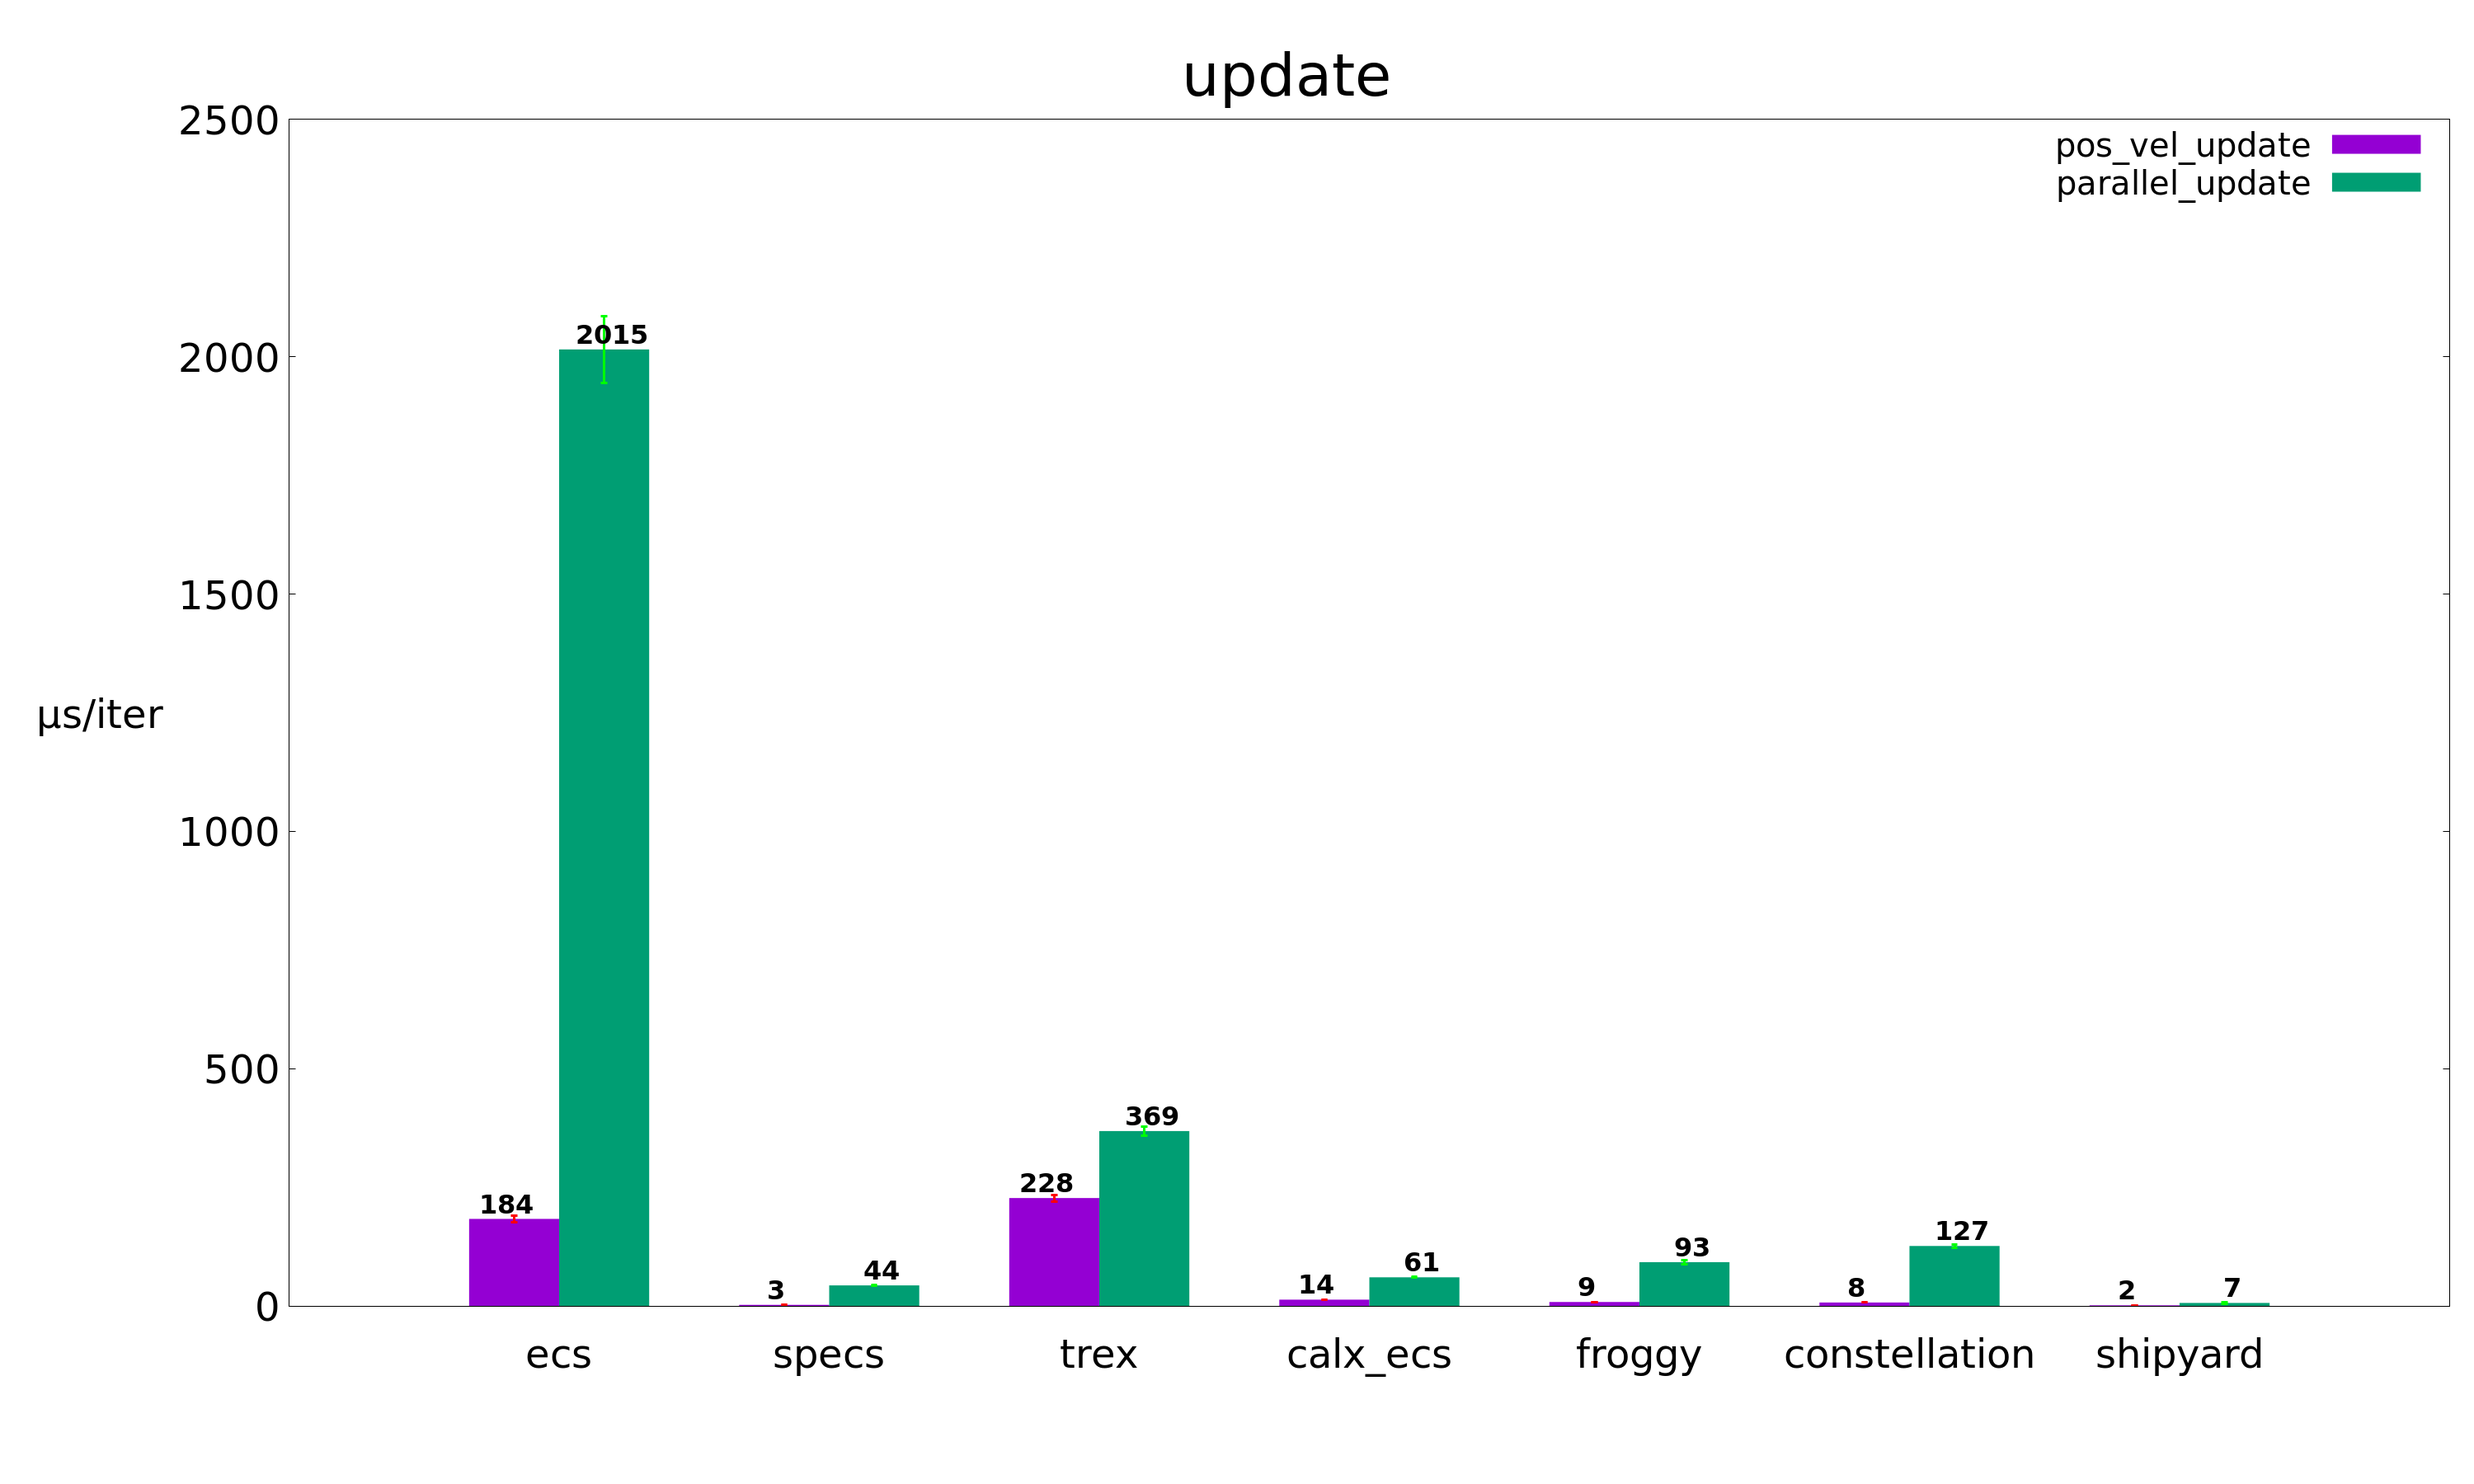
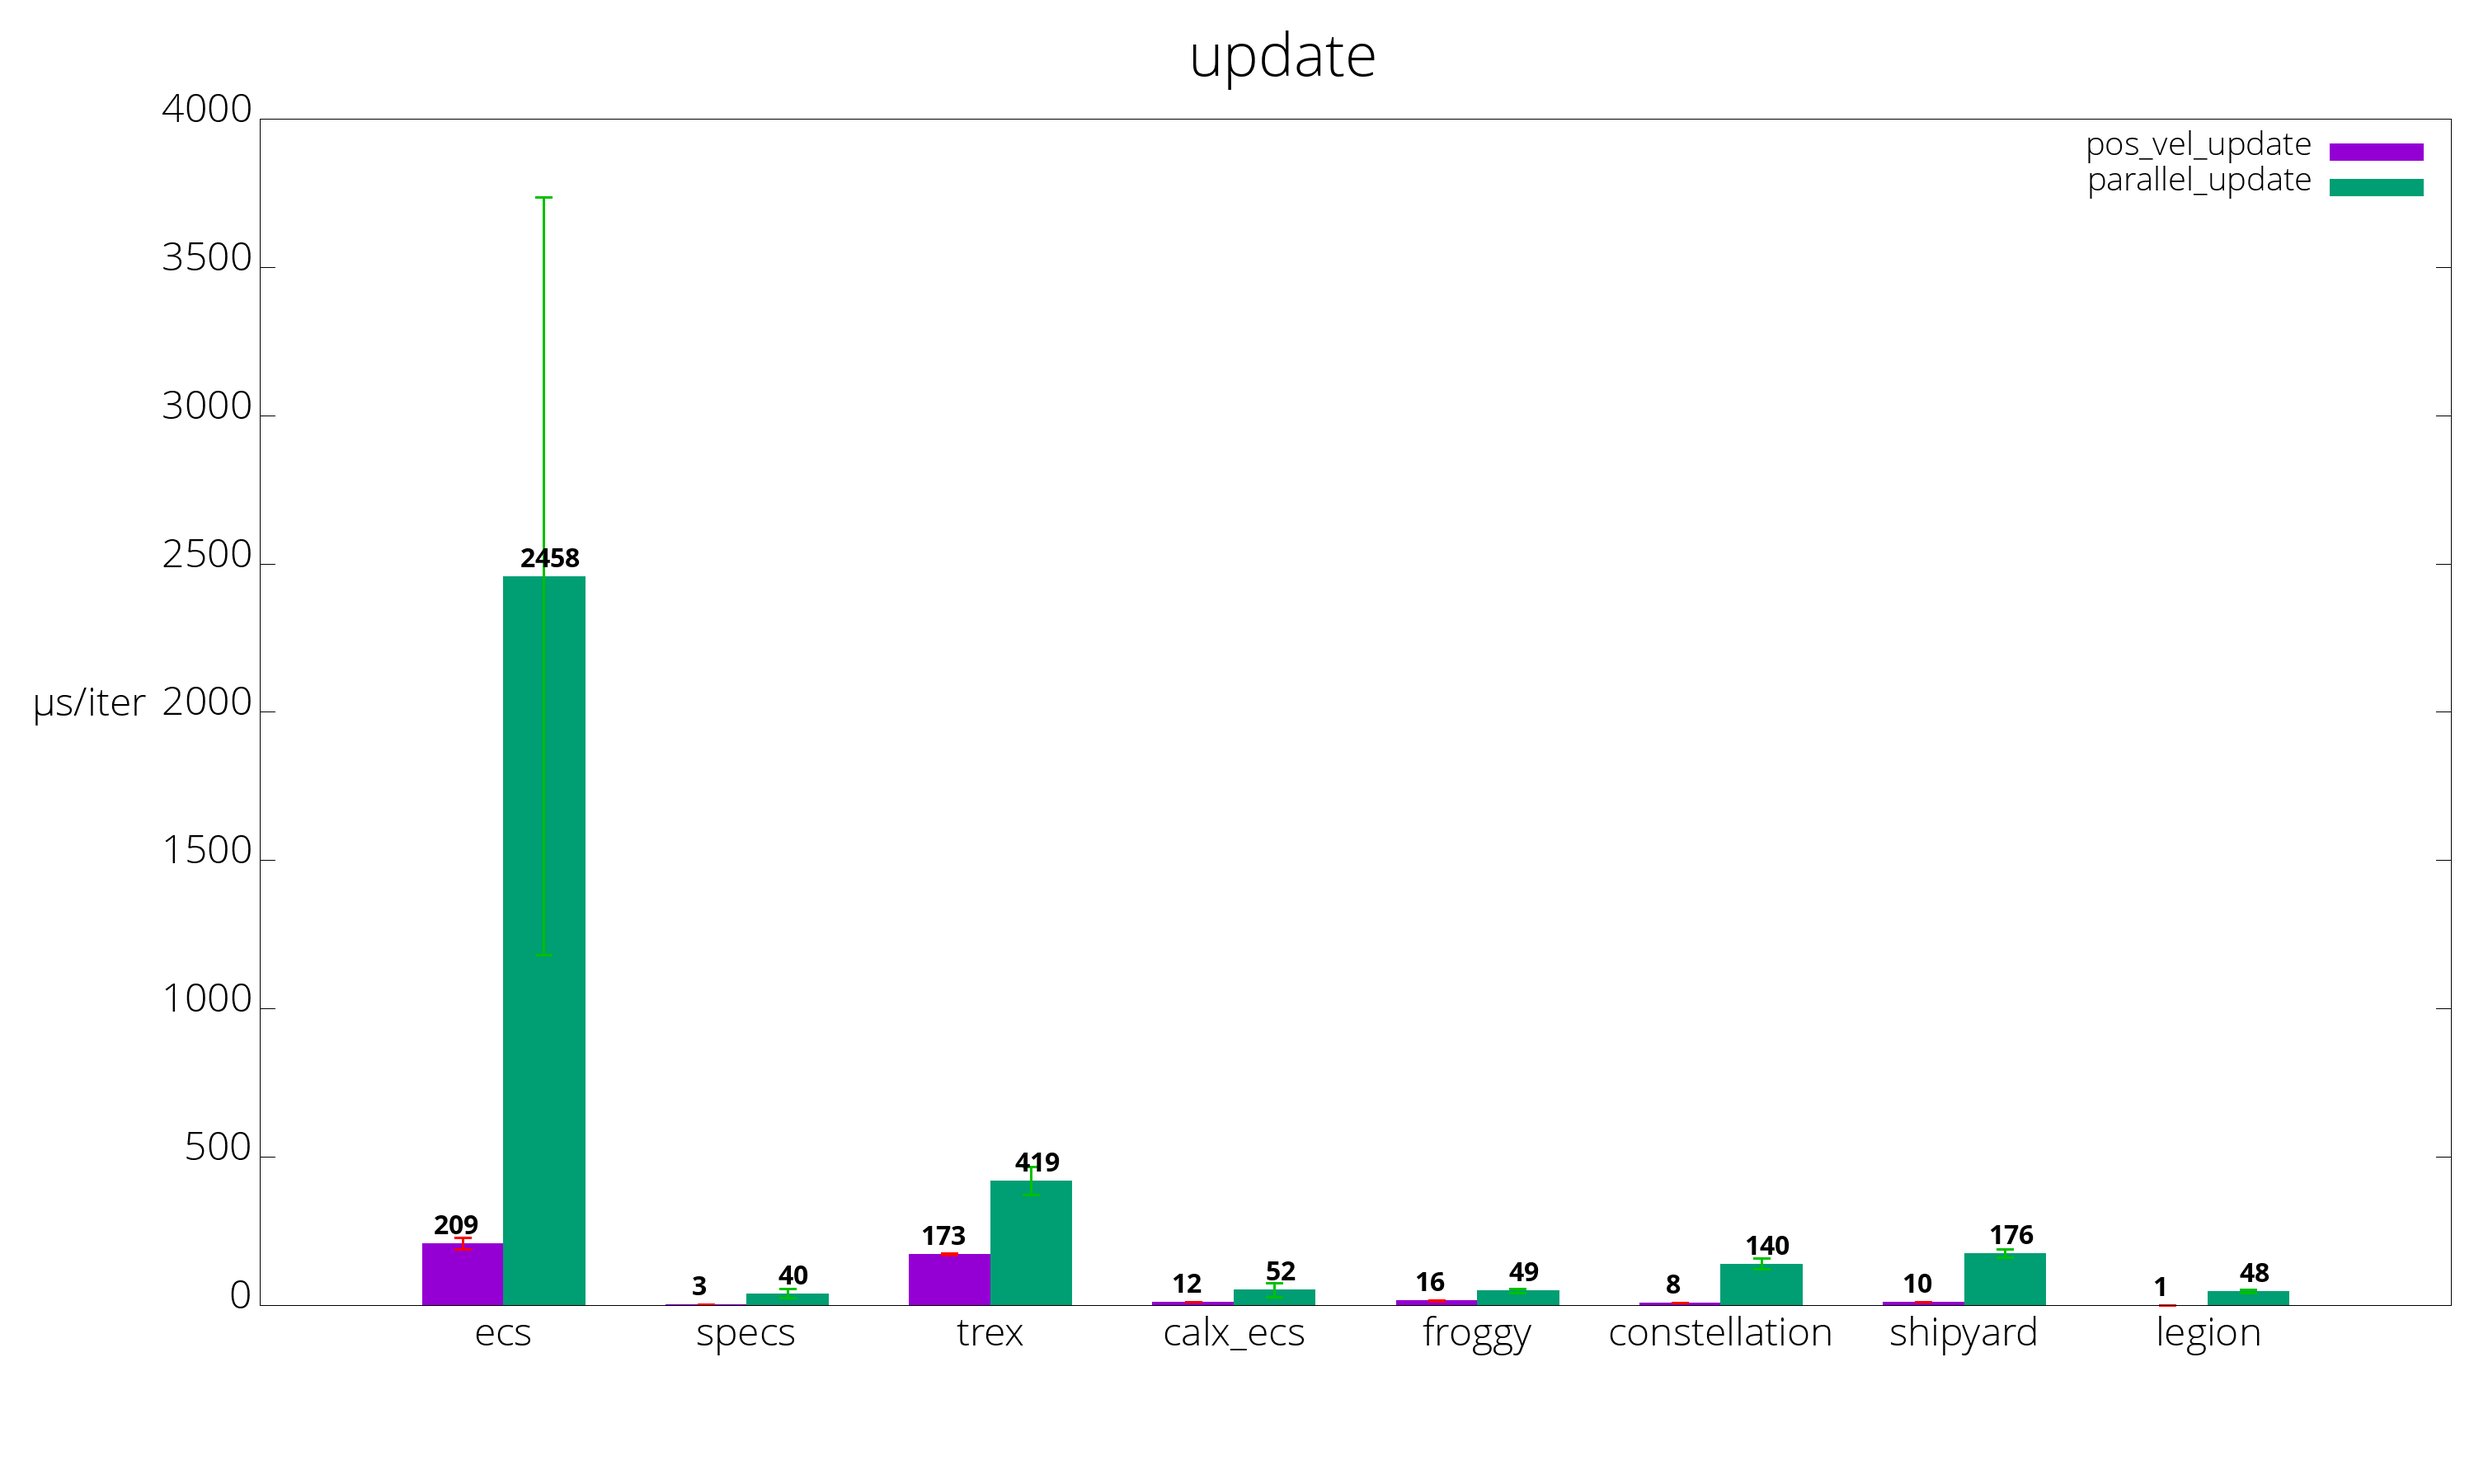
Add legion 0.3 and update shipyard 0.4

diff --git a/benches/parallel_shipyard.rs b/benches/parallel_shipyard.rs
@@ -3,47 +3,46 @@ extern crate test;
 use test::Bencher;
 
 extern crate ecs_bench;
-extern crate rayon;
 extern crate shipyard;
 
-use rayon::iter::ParallelIterator;
-use shipyard::prelude::*;
+use shipyard::*;
 
 use ecs_bench::parallel::*;
 
-#[system(Sys1)]
-fn run(mut w1s: &mut W1, rs: &R) {
-    (&mut w1s, &rs).par_iter().for_each(|(w1, r)| {
+fn sys1(mut w1s: ViewMut<W1>, rs: View<R>) {
+    for (mut w1, r) in (&mut w1s, &rs).iter() {
         w1.x = r.x;
-    });
+    }
 }
 
-#[system(Sys2)]
-fn run(mut w2s: &mut W2, rs: &R) {
-    (&mut w2s, &rs).par_iter().for_each(|(w2, r)| {
+fn sys2(mut w2s: ViewMut<W1>, rs: View<R>) {
+    for (mut w2, r) in (&mut w2s, &rs).iter() {
         w2.x = r.x;
-    })
+    }
 }
 
 fn build() -> World {
     let world = World::new();
 
-    {
-        let (mut entities, mut rs, mut w1s, mut w2s) =
-            world.borrow::<(EntitiesMut, &mut R, &mut W1, &mut W2)>();
+    world.run(
+        |mut entities: EntitiesViewMut,
+         mut w1s: ViewMut<W1>,
+         mut w2s: ViewMut<W2>,
+         mut rs: ViewMut<R>| {
+            for _ in 0..N {
+                entities.add_entity(
+                    (&mut rs, &mut w1s, &mut w2s),
+                    (R { x: 0. }, W1 { x: 0. }, W2 { x: 0. }),
+                );
+            }
+        },
+    );
 
-        (&mut w1s, &mut rs).tight_pack();
-        (&mut w2s, &mut rs).loose_pack();
-
-        for _ in 0..N {
-            entities.add_entity(
-                (&mut rs, &mut w1s, &mut w2s),
-                (R { x: 0. }, W1 { x: 0. }, W2 { x: 0. }),
-            );
-        }
-    }
-
-    world.add_workload::<(Sys1, Sys2), _>("Bench");
+    world
+        .add_workload("Bench")
+        .with_system(system!(sys1))
+        .with_system(system!(sys2))
+        .build();
 
     world
 }
@@ -58,6 +57,6 @@ fn bench_update(b: &mut Bencher) {
     let world = build();
 
     b.iter(|| {
-        world.run_default();
+        world.run_workload("Bench");
     })
 }

diff --git a/benches/pos_vel_shipyard.rs b/benches/pos_vel_shipyard.rs
@@ -6,36 +6,34 @@ extern crate ecs_bench;
 extern crate shipyard;
 
 use ecs_bench::pos_vel::*;
-use shipyard::prelude::*;
+use shipyard::*;
 
-#[system(VelSys)]
-fn run(velocities: &Velocity, mut positions: &mut Position) {
-    (&mut positions, &velocities).iter().for_each(|(pos, vel)| {
+fn run(velocities: View<Velocity>, mut positions: ViewMut<Position>) {
+    for (vel, mut pos) in (&velocities, &mut positions).iter() {
         pos.x += vel.dx;
         pos.y += vel.dy;
-    });
+    }
 }
 
 fn build() -> World {
     let world = World::new();
 
-    {
-        let (mut entities, mut positions, mut velocities) =
-            world.borrow::<(EntitiesMut, &mut Position, &mut Velocity)>();
-
-        (&mut positions, &mut velocities).tight_pack();
-
-        for i in 0..N_POS {
-            if i % N_POS_PER_VEL == 0 {
-                entities.add_entity(
-                    (&mut positions, &mut velocities),
-                    (Position { x: 0., y: 0. }, Velocity { dx: 0., dy: 0. }),
-                );
-            } else {
-                entities.add_entity(&mut positions, Position { x: 0., y: 0. });
+    world.run(
+        |mut entities: EntitiesViewMut,
+         mut positions: ViewMut<Position>,
+         mut velocities: ViewMut<Velocity>| {
+            for i in 0..N_POS {
+                if i % N_POS_PER_VEL == 0 {
+                    entities.add_entity(
+                        (&mut positions, &mut velocities),
+                        (Position { x: 0., y: 0. }, Velocity { dx: 0., dy: 0. }),
+                    );
+                } else {
+                    entities.add_entity(&mut positions, Position { x: 0., y: 0. });
+                }
             }
-        }
-    }
+        },
+    );
 
     world
 }
@@ -50,6 +48,6 @@ fn bench_update(b: &mut Bencher) {
     let world = build();
 
     b.iter(|| {
-        world.run_system::<VelSys>();
+        world.run(run);
     });
 }

diff --git a/benches/parallel_legion.rs b/benches/parallel_legion.rs
@@ -1,0 +1,50 @@
+#![feature(test)]
+
+extern crate ecs_bench;
+extern crate legion;
+extern crate rayon;
+extern crate test;
+
+use ecs_bench::parallel::{N, R, W1, W2};
+use legion::*;
+use test::Bencher;
+
+#[system(for_each)]
+fn sys1(w1: &mut W1, r: &R) {
+    w1.x = r.x;
+}
+
+#[system(for_each)]
+fn sys2(w2: &mut W2, r: &R) {
+    w2.x = r.x;
+}
+
+fn build() -> (World, Schedule, Resources) {
+    let mut world = World::default();
+    let resources = Resources::default();
+
+    world.extend((0..N).map(|_| (R { x: 0.0 }, W1 { x: 0.0 }, W2 { x: 0.0 })));
+
+    let schedule = Schedule::builder()
+        .add_system(sys1_system())
+        .add_system(sys2_system())
+        .build();
+
+    (world, schedule, resources)
+}
+
+// ---
+
+#[bench]
+fn bench_build(b: &mut Bencher) {
+    b.iter(|| build());
+}
+
+#[bench]
+fn bench_update(b: &mut Bencher) {
+    let (mut world, mut schedule, mut resources) = build();
+
+    b.iter(|| {
+        schedule.execute(&mut world, &mut resources);
+    });
+}

diff --git a/benches/pos_vel_legion.rs b/benches/pos_vel_legion.rs
@@ -1,0 +1,41 @@
+#![feature(test)]
+
+extern crate ecs_bench;
+extern crate legion;
+extern crate test;
+
+use ecs_bench::pos_vel::{Position, Velocity, N_POS, N_POS_PER_VEL};
+use legion::*;
+use test::Bencher;
+
+const N_POS_ONLY: usize = N_POS * (100 - N_POS_PER_VEL) / 100;
+const N_POS_AND_VEC: usize = N_POS * (N_POS_PER_VEL) / 100;
+
+fn build() -> World {
+    let mut world = World::default();
+
+    world.extend(
+        (0..N_POS_AND_VEC).map(|_| (Position { x: 0.0, y: 0.0 }, Velocity { dx: 1.0, dy: 1.0 })),
+    );
+    world.extend((0..N_POS_ONLY).map(|_| (Position { x: 0.0, y: 0.0 },)));
+
+    world
+}
+
+#[bench]
+fn bench_update(b: &mut Bencher) {
+    let mut world = build();
+    let mut query = <(&Velocity, &mut Position)>::query();
+
+    b.iter(|| {
+        for (vel, pos) in query.iter_mut(&mut world) {
+            pos.x += vel.dx;
+            pos.y += vel.dy;
+        }
+    })
+}
+
+#[bench]
+fn bench_build(b: &mut Bencher) {
+    b.iter(|| build());
+}

diff --git a/bench_results.py b/bench_results.py
@@ -1,6 +1,6 @@
 import subprocess
 
-benches = ['ecs', 'specs', 'trex', 'calx_ecs', 'froggy', 'constellation', 'shipyard']
+benches = ['ecs', 'specs', 'trex', 'calx_ecs', 'froggy', 'constellation', 'shipyard', 'legion']
 bench_targets = ['pos_vel', 'parallel']
 bench_names = ['build', 'update']
 
@@ -55,7 +55,7 @@ def parse(out, bench_target, bench_name):
 
     return (result, error)
 
-out = subprocess.check_output(["cargo", "bench"], stderr=subprocess.STDOUT)
+out = subprocess.check_output(["cargo", "+nightly", "bench"], stderr=subprocess.STDOUT)
 
 with open('README.md.tmpl', 'r') as f:
     readme = f.read()

diff --git a/benches/parallel_calx_ecs.rs b/benches/parallel_calx_ecs.rs
@@ -2,9 +2,8 @@
 extern crate test;
 use test::Bencher;
 
-#[macro_use]
-extern crate serde_derive;
 extern crate serde;
+extern crate serde_derive;
 
 #[macro_use]
 extern crate calx_ecs;

diff --git a/benches/pos_vel_calx_ecs.rs b/benches/pos_vel_calx_ecs.rs
@@ -2,9 +2,8 @@
 extern crate test;
 use test::Bencher;
 
-#[macro_use]
-extern crate serde_derive;
 extern crate serde;
+extern crate serde_derive;
 
 #[macro_use]
 extern crate calx_ecs;

diff --git a/README.md b/README.md
@@ -7,21 +7,23 @@ Benchmarks are located in `benches/[bench_name]_[ecs_crate_name].rs`.
 
  Library         | pos_vel build                 | pos_vel update                 | parallel build                 | parallel update
  --------------- |:-----------------------------:|:------------------------------:|:------------------------------:|:--------------------------------:
- [calx-ecs]      | 368 µs/iter (+/- 21)      | 14 µs/iter (+/- 0)      | 678 µs/iter (+/- 25)      | 61 µs/iter (+/- 1)
- [constellation] | 289 µs/iter (+/- 15) | 8 µs/iter (+/- 0) | 514 µs/iter (+/- 16) | 127 µs/iter (+/- 4)
- [ecs]           | 1,231 µs/iter (+/- 46)           | 184 µs/iter (+/- 7)           | 1,295 µs/iter (+/- 81)           | 2,015 µs/iter (+/- 70)
- [froggy]        | 489 µs/iter (+/- 15)        | 9 µs/iter (+/- 0)        | 1,082 µs/iter (+/- 33)        | 93 µs/iter (+/- 4)
- [specs]         | 345 µs/iter (+/- 10)         | 3 µs/iter (+/- 0)         | 545 µs/iter (+/- 13)         | 44 µs/iter (+/- 1)
- [trex]          | 1,044 µs/iter (+/- 29)          | 228 µs/iter (+/- 7)          | 1,438 µs/iter (+/- 49)          | 369 µs/iter (+/- 9)
- [shipyard]      | 647 µs/iter (+/- 33)      | 2 µs/iter (+/- 0)      | 2,279 µs/iter (+/- 127)      | 7 µs/iter (+/- 1)
+ [calx-ecs]      | 237 µs/iter (+/- 55)      | 12 µs/iter (+/- 0)      | 397 µs/iter (+/- 52)      | 52 µs/iter (+/- 23)
+ [constellation] | 245 µs/iter (+/- 19) | 8 µs/iter (+/- 0) | 423 µs/iter (+/- 58) | 140 µs/iter (+/- 19)
+ [ecs]           | 873 µs/iter (+/- 60)           | 209 µs/iter (+/- 20)           | 963 µs/iter (+/- 98)           | 2,458 µs/iter (+/- 1,277)
+ [froggy]        | 281 µs/iter (+/- 27)        | 16 µs/iter (+/- 1)        | 654 µs/iter (+/- 70)        | 49 µs/iter (+/- 7)
+ [specs]         | 239 µs/iter (+/- 3)         | 3 µs/iter (+/- 0)         | 910 µs/iter (+/- 424)         | 40 µs/iter (+/- 15)
+ [trex]          | 1,503 µs/iter (+/- 74)          | 173 µs/iter (+/- 3)          | 1,898 µs/iter (+/- 148)          | 419 µs/iter (+/- 47)
+ [shipyard]      | 675 µs/iter (+/- 28)      | 10 µs/iter (+/- 0)      | 1,710 µs/iter (+/- 212)      | 176 µs/iter (+/- 14)
+ [legion]        | 396 µs/iter (+/- 54)        | 1 µs/iter (+/- 0)        | 719 µs/iter (+/- 32)        | 48 µs/iter (+/- 5)
 
 [calx-ecs]: https://github.com/rsaarelm/calx-ecs
 [constellation]: https://github.com/TomGillen/constellation/
-[ecs]: https://github.com/HeroesGrave/ecs-rs
-[froggy]: https://github.com/kvark/froggy
-[specs]: https://github.com/slide-rs/specs
-[trex]: https://github.com/rcolinray/trex
-[shipyard]: https://github.com/leudz/shipyard
+[ecs]: https://github.com/HeroesGrave/ecs-rs/
+[froggy]: https://github.com/kvark/froggy/
+[specs]: https://github.com/slide-rs/specs/
+[trex]: https://github.com/rcolinray/trex/
+[shipyard]: https://github.com/leudz/shipyard/
+[legion]: https://github.com/amethyst/legion/
 
 
 Visualization of benchmarks, smaller is better.
